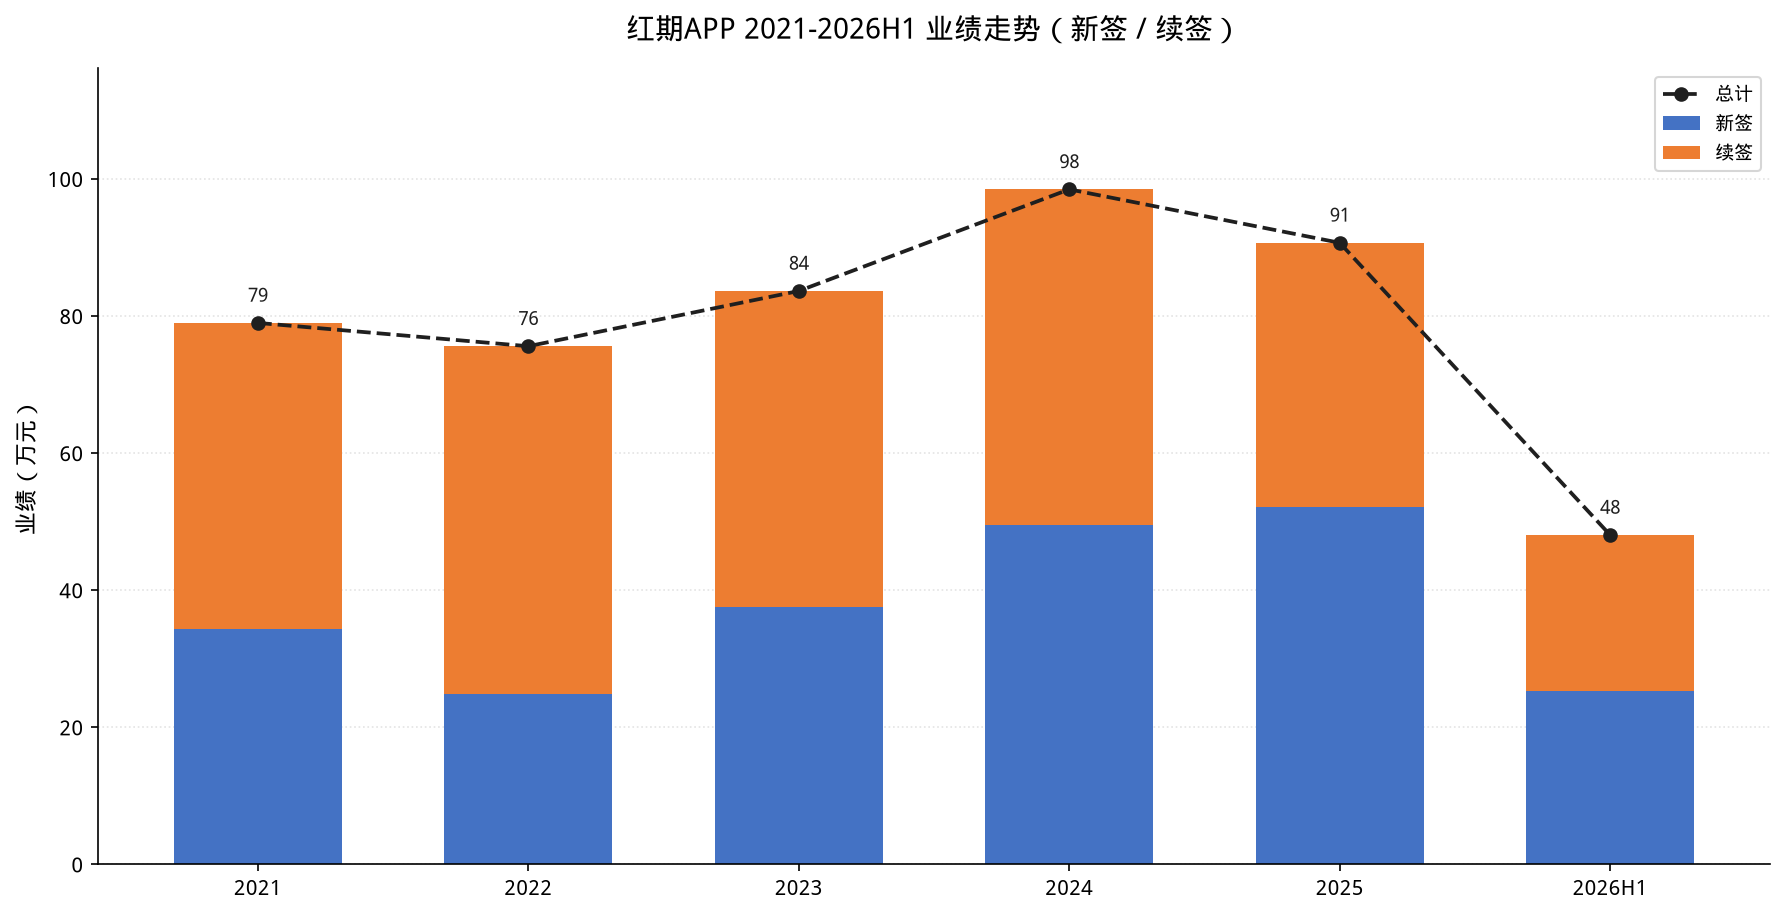
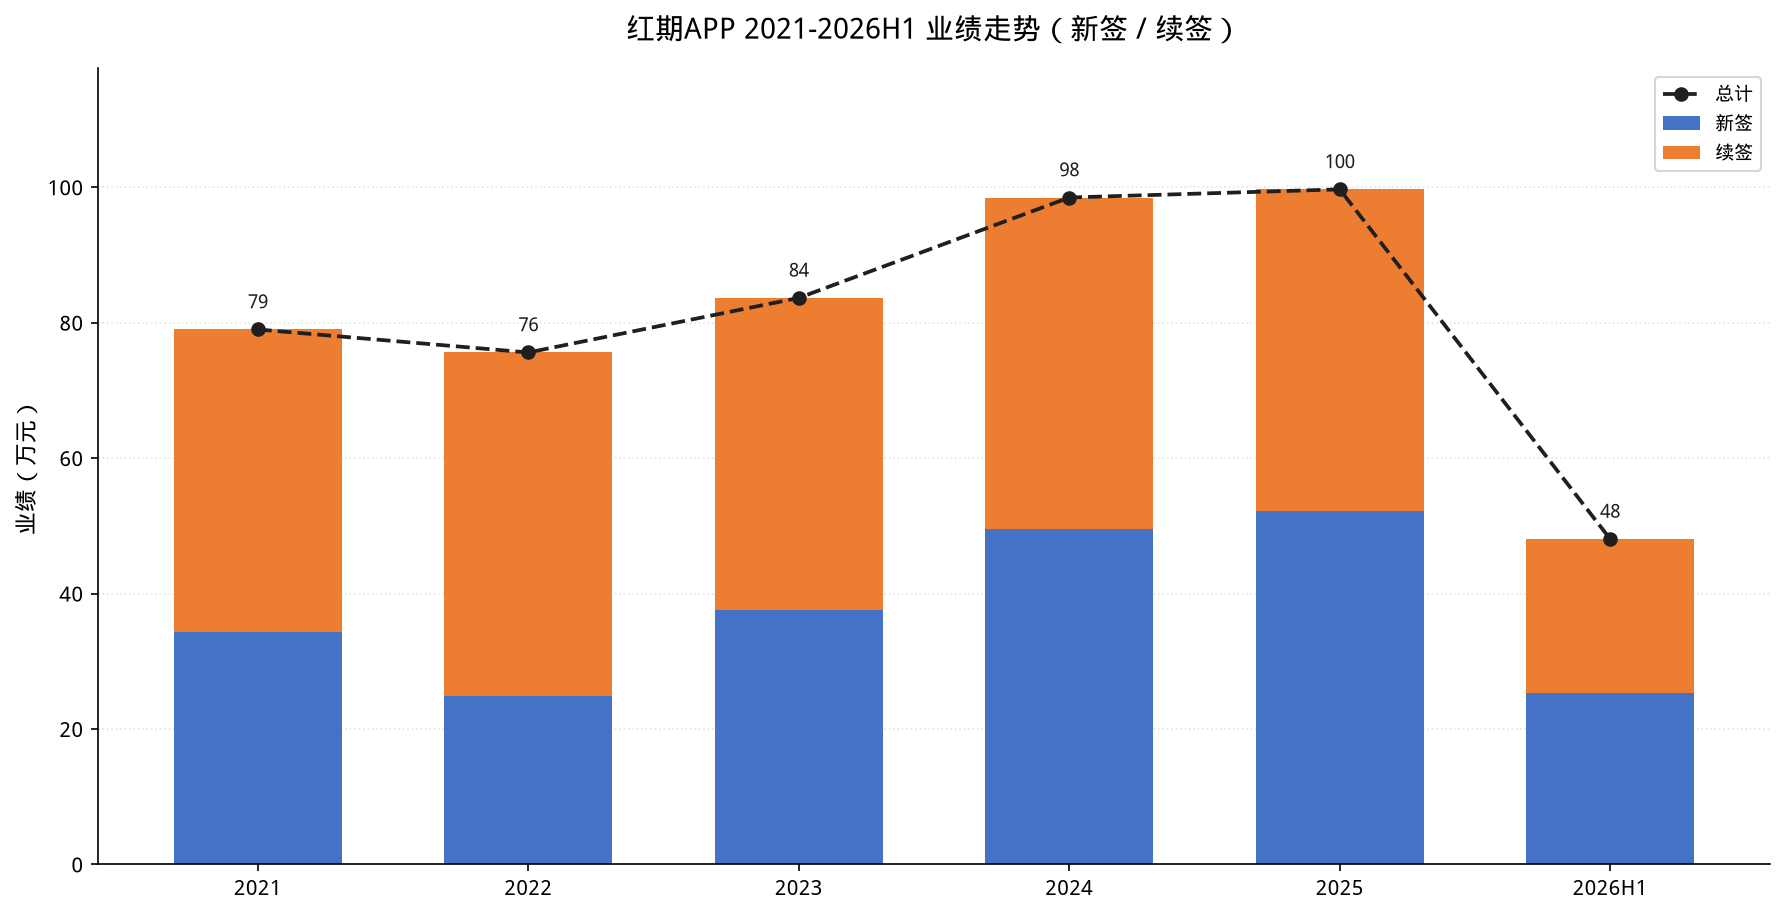
Add 9万 to 红期APP 2025 performance, regenerate chart

diff --git a/charts/generate_hongqi_app_charts.py b/charts/generate_hongqi_app_charts.py
@@ -19,7 +19,7 @@ OUTPUT_DIR = Path(__file__).parent
 PERF_NEW = [343011.59, 248420.07, 375485.63, 495536.32, 521432.18, 253378.83]
 # 续签业绩基础值 + 2022-2026H1 追加业绩
 PERF_RENEW_BASE = [447103.98, 499671.84, 456856.52, 476033.57, 361719.57, 221220.72]
-PERF_RENEW_EXTRA = [0, 8020.00, 4351.00, 13389.28, 23844.44, 6025.97]
+PERF_RENEW_EXTRA = [0, 8020.00, 4351.00, 13389.28, 113844.44, 6025.97]
 PERF_RENEW = [b + e for b, e in zip(PERF_RENEW_BASE, PERF_RENEW_EXTRA)]
 
 
